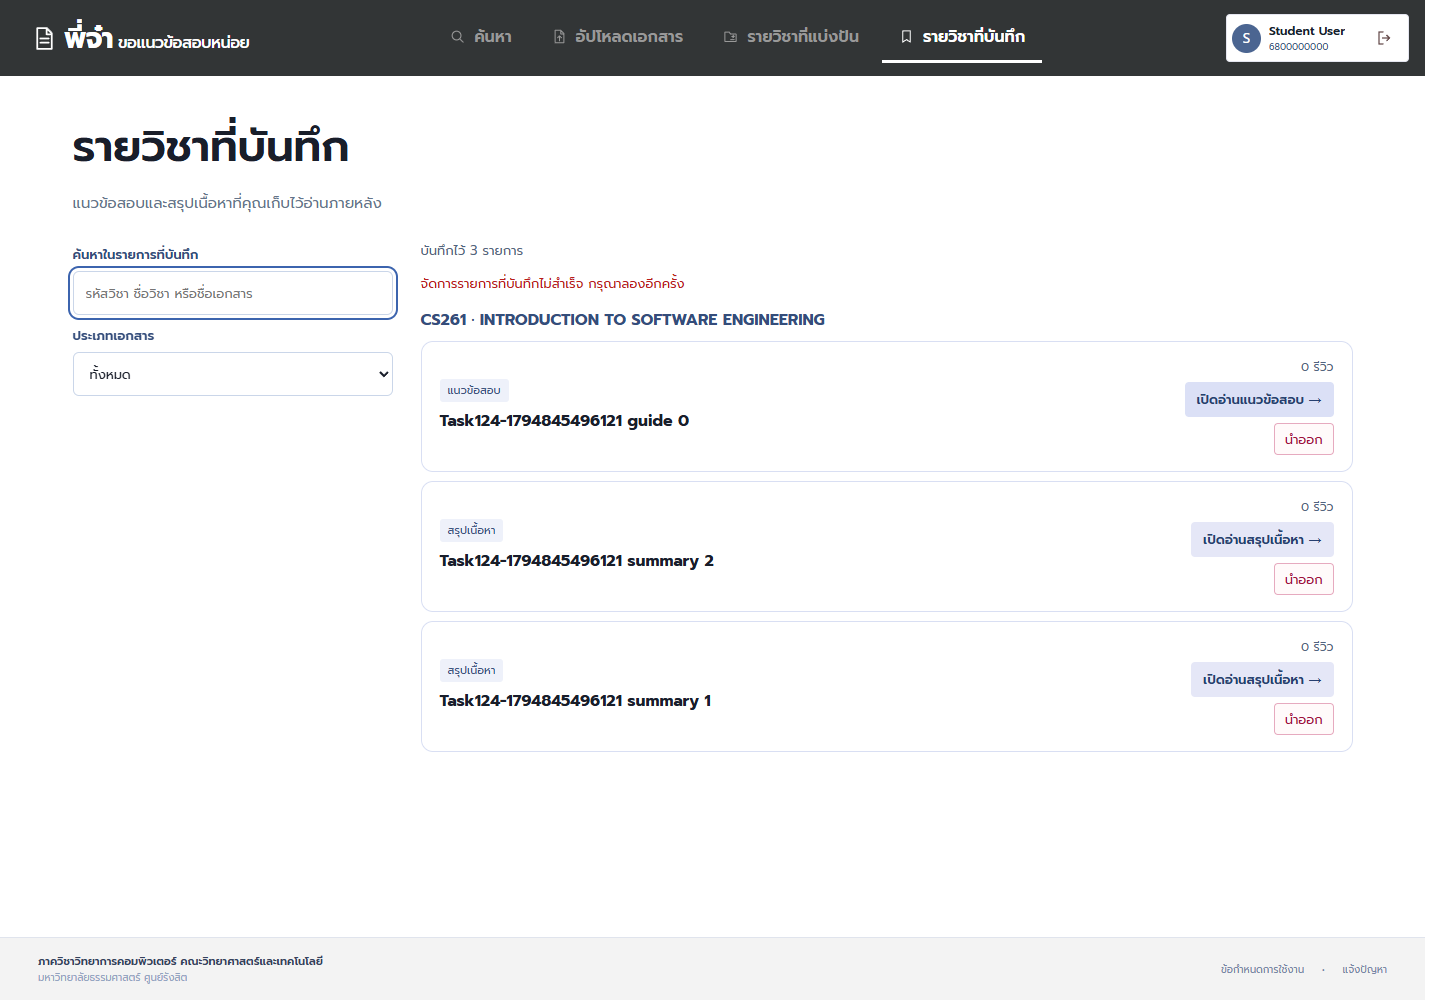
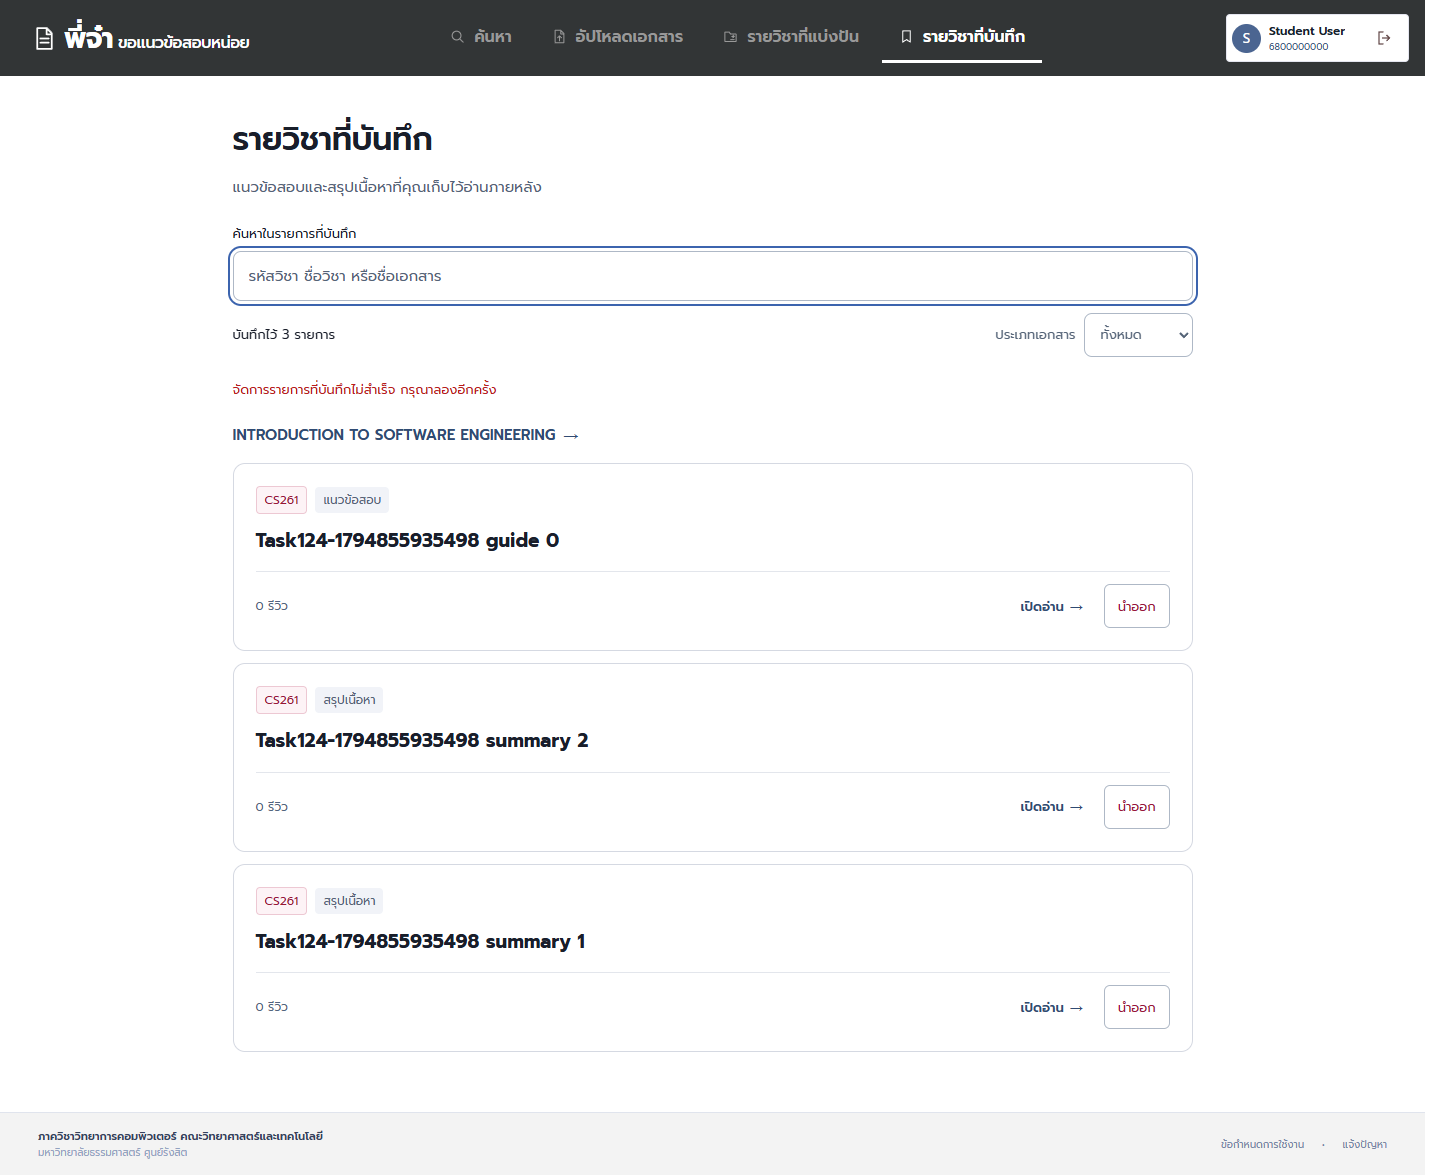
docs(task124): refresh evidence on merged Task119 and review fixes

diff --git a/docs/U10/testing/task124-u10-docker-integration.md b/docs/U10/testing/task124-u10-docker-integration.md
@@ -2,39 +2,44 @@
 
 ทดสอบหน้า “รายวิชาที่บันทึก” ผ่าน Frontend proxy, Backend, SQL Server และ PDF volume จริงแล้ว ครอบคลุมดูรายการ จัดกลุ่มตามวิชา เปิด Guide/PDF ตรงชิ้น และนำออกเฉพาะ bookmark ของบัญชีปัจจุบัน ตาม Task104 และ Task94 รุ่น 0.4 ไม่ใช้ SavedCourse หรือลบเนื้อหาทั้งวิชา
 
-รันวันที่ 16 พฤศจิกายน 2569 ใช้ฐาน `sprint2` commit `89a60fa2fcc4768e8c5fc786cae15fc66eac874d` ซึ่งรวม #129, #130 และ #131 แล้ว ชุดทดสอบอยู่ที่ `90acf9bde0c711610d5cf8df835bab1fce1e981a` รอบสุดท้าย exit 0 และ [results.json](../assets/task124/results.json) มี `passed: true` ใช้ Chrome 142.0.7444.176, Docker Engine 29.8.2, SQL Server 2022 รุ่น 16.0.4305.5 และ Playwright Core 1.65.1 การ Login ใช้ **TU mock** ไม่ใช่ TU จริง
+รันรอบแก้วันที่ 17 พฤศจิกายน 2569 (Asia/Bangkok) หลังรวม `sprint2` commit `d854470` ซึ่งมี Task119 จาก #135 แล้ว ชุดทดสอบกับ source ที่รันจริงคือ `ee56764bb03f74599e4c9b84b1f878820664a822` รอบสุดท้าย exit 0 และ [results.json](../assets/task124/results.json) มี `passed: true` ใช้ Chrome 142.0.7444.176, Docker Engine 29.8.2, SQL Server 2022 รุ่น 16.0.4305.5 และ Playwright Core 1.65.1 การ Login ใช้ **TU mock** ไม่ใช่ TU จริง เวลาใน JSON เป็น UTC
 
 ## ผลจากการรัน
 
 | กรณี | ผลที่ยืนยัน |
 | --- | --- |
+| ยืนยัน stack ก่อน Login | ตรวจ Docker metadata ของ Frontend A/B ว่าเป็นเจ้าของพอร์ต 29800/29801 จริง อยู่ใน Compose project ที่เลือก และแต่ละ proxy ชี้ Backend A/B ที่ใช้ mock ใน project/network เดียวกัน หากไม่ตรงจะหยุดก่อนเปิด browser/Login/สร้าง fixture |
 | Empty | ยังไม่มี bookmark แสดง “ยังไม่มีรายการที่บันทึก” พร้อมลิงก์ค้นหารายวิชา ไม่มี token เรียก GET list ได้ 401 |
-| รายการและการจัดกลุ่ม | A มี Guide หนึ่งชิ้นกับ PDF สองชิ้นใน CS261 แสดงสามรายการในหนึ่งกลุ่ม ไม่แสดงรายการเฉพาะของ B กดหัวกลุ่มไปวิชาที่ถูกต้อง |
-| เปิดตรงผลงาน | กด Guide ได้ title/ID ตรงรายการและ alias `/api/guides/{id}` ใช้ได้ PDF สองไฟล์มี checksum ต่างกัน กดแต่ละชิ้นได้ ID กับ SHA-256 ตรงไฟล์นั้น เปิดผ่าน API จริงและมี blob PDF ในหน้าอ่าน |
+| รายการและการจัดกลุ่ม | A มี Guide หนึ่งชิ้นกับ PDF สองชิ้นใน CS261 แสดงสามรายการในหนึ่งกลุ่ม ไม่แสดงรายการเฉพาะของ B กดหัวกลุ่มแล้วตรวจ courseId ใน URL พร้อมรหัสและชื่อวิชาที่หน้า `courseHeading`/`courseName` แสดงจริง |
+| เปิดตรงผลงาน | กด Guide ได้ title/ID ตรงรายการและ alias `/api/guides/{id}` ใช้ได้ PDF สองไฟล์มี checksum ต่างกัน ตรวจ SHA-256 จาก blob URL ใน `src` ของ iframe ตัวอ่านจริง เทียบ fixture ของชิ้นที่กด ไม่ใช้ GET แยกจากตัวอ่าน พร้อมเก็บ checksum ทั้งสองด้านใน JSON |
 | Reload และ session ใหม่ | หลัง reload และ Login ใหม่ รายการสามชิ้นของ A ยังอยู่ ส่วน B เห็นสี่ชิ้นตาม bookmark ของตัวเอง |
 | นำออกและนำออกซ้ำ | กดนำ Guide/PDF ออกได้ 200 การ์ดหายหลัง reload ลบซ้ำยังได้ 200 `saved:false` SQL เหลือ bookmark ของ B โดย Course, Guide, Summary, SummaryFile, reviews และไฟล์ไม่เปลี่ยน |
-| SQL ปฏิเสธ DELETE | Trigger จำกัดเฉพาะบัญชี A และผลงานทดสอบทำให้ DELETE ได้ 503 `SAVED_ITEMS_UNAVAILABLE` หน้าแสดงข้อผิดพลาดและโหลด list ใหม่ Bookmark ของทั้ง A/B ยังอยู่ ทดสอบแยก Guide กับ PDF |
+| SQL ปฏิเสธ DELETE | Trigger จำกัดเฉพาะบัญชี A และผลงานทดสอบทำให้ DELETE ได้ 503 `SAVED_ITEMS_UNAVAILABLE` รอ GET `/api/saved-items` ที่เกิดหลัง response 503 ตรวจว่าได้ 200 และ payload ยังมี bookmark เดิมของ A หน้าแสดงข้อผิดพลาดและการ์ดยังอยู่ SQL ยืนยัน bookmark ของทั้ง A/B ยังอยู่ ทดสอบแยก Guide/PDF |
 | SQL อ่านรายการไม่ได้ | เปลี่ยนชื่อตาราง relation ของชุดทดสอบชั่วคราว ทำให้ SELECT จริงล้มเหลว ได้ 503 หน้าแจ้ง “โหลดรายการไม่สำเร็จ” ไม่แสดงรายการบางส่วนหรือ empty เมื่อคืนชื่อตารางแล้วกดลองอีกครั้ง เห็นครบสามรายการ |
 | Browser ไม่ได้รับผล DELETE | ให้คำขอผ่านไปลบใน Backend/SQL จริงจนได้ 200 แล้ว Playwright ตัด response เฉพาะฝั่ง Browser หน้าโหลด GET list ใหม่ การ์ดหายตาม SQL แต่ยังแจ้งว่ายืนยันผลคำขอเดิมไม่ได้ Bookmark ของ B คงอยู่ ทดสอบ Guide/PDF แยกกัน |
 | เปิดรายการเก่าที่ผลงานถูกลบ | ลบ target ด้วยคำขอเจ้าของอีกชุด โดยหน้า list ยังมีการ์ดเก่า กดเปิดแล้วได้หน้าไม่พบผลงาน กด Browser Back แล้วมี GET list ใหม่ การ์ดที่หายถูกนำออก แต่ PDF อีกชิ้นยังอยู่ ทดสอบทั้ง Guide/PDF |
 | ข้อมูลและสิทธิ์ | type/ID ผิด เช่น `course`, `1.0` ได้ 422 ส่ง `user_id` ใน query ไม่ได้ และไม่มี token ส่ง DELETE ได้ 401 |
 | นำชิ้นสุดท้ายออก | หน้า A กลับเป็น empty และยังว่างหลัง Login ใหม่ ส่วน B ยังมี bookmark ของ PDF ชิ้นนั้นกับ Guide ของตน และรายละเอียด PDF ยังเปิดได้ |
 | Cleanup | ลบเฉพาะผลงานของสคริปต์ผ่าน API เจ้าของ คืนชื่อตาราง ลบ trigger แล้วเทียบแถว SQL และไฟล์/checksum กับ baseline ตรงกัน |
+| Trigger ที่มีอยู่ก่อน | เตรียม trigger ไว้ก่อนเรียกสคริปต์หลัก สคริปต์หยุดก่อน Login/fixture ตรวจ object ID, definition, จำนวนข้อมูล และจำนวนคำขอ Login ไม่เปลี่ยน trigger เดิมยังอยู่ |
+| Assertion ล้มหลังสร้าง trigger | สร้าง trigger ผ่าน ownership helper เดียวกับสคริปต์หลัก แล้วจำลอง assertion ล้ม ตรวจว่า `finally` ลบเฉพาะ trigger ที่สร้างในรอบนั้น และข้อมูลกลับเท่าเดิม |
 
 ไม่ได้ mock SQL, DAO, API response หรือ PDF storage กรณี SELECT/DELETE ล้มเหลวเป็นข้อผิดพลาดจาก SQL Server จริง ส่วนการตัด response จำลองด้วย Playwright หลัง Backend ทำงานเสร็จ จึง **ไม่ใช่** การตัดการเชื่อมต่อ Backend–SQL Server ขณะรอผล commit และไม่ใช้ผลนี้อ้างว่าทดสอบกรณีนั้นแล้ว
 
 ## หลักฐาน
 
 - [รายการว่าง](../assets/task124/01-empty.png) และ [หลายผลงานในวิชาเดียว](../assets/task124/02-grouped-list.png)
-- [เปิด Guide](../assets/task124/02-open-guide-7.png), [PDF ชิ้นแรก](../assets/task124/02-open-summary-3.png), [PDF ชิ้นที่สอง](../assets/task124/02-open-summary-4.png)
+- [เปิด Guide](../assets/task124/02-open-guide.png), [PDF ชิ้นแรก](../assets/task124/02-open-summary-1.png), [PDF ชิ้นที่สอง](../assets/task124/02-open-summary-2.png)
 - SQL ปฏิเสธการลบ [Guide](../assets/task124/03-guide-delete-sql-failure.png) / [PDF](../assets/task124/03-summary-delete-sql-failure.png)
 - [SQL อ่านรายการไม่ได้](../assets/task124/04-list-sql-failure.png)
 - โหลดสถานะหลัง response หาย [Guide](../assets/task124/05-guide-lost-response.png) / [PDF](../assets/task124/05-summary-lost-response.png)
 - [นำรายการสุดท้ายออกแล้ว](../assets/task124/06-final-empty.png)
 - [ผล JSON พร้อม SHA/environment/auth mode และ fixture IDs](../assets/task124/results.json)
 - [สคริปต์ทดสอบและคืนข้อมูล](../../../scripts/task124-u10-browser.cjs)
+- [ผลทดสอบ trigger บน SQL จริง](../assets/task124/trigger-safety-results.json) และ [สคริปต์รันซ้ำ](../../../scripts/task124-trigger-check.cjs)
+- [Guard tests](../../../scripts/task124-guards.test.cjs): **10 ผ่าน** ครอบคลุม port/project/proxy/network/auth ที่ไม่ตรง, CREATE ล้มเหลวไม่ถือ ownership และ cleanup หลัง assertion ล้ม
 
-ชื่อภาพเปิดผลงานอ้าง ID ของรอบที่เก็บหลักฐาน การรันครั้งใหม่อาจได้ ID และชื่อภาพต่างออกไป ไม่ต้องแก้ ID ในสคริปต์
+ชื่อภาพเปิดผลงานใช้ลำดับ fixture เพื่อให้รันซ้ำแล้วเขียนทับภาพเดิมได้ ID จริงของรอบล่าสุดอยู่ใน JSON ไม่ต้องกำหนด ID เอง
 
 ## บัญชี ข้อมูล และ baseline
 
@@ -57,7 +62,7 @@ TU_API_MODE=mock
 ```
 
 ```powershell
-$task124Project = 'cs261-task124-89a60fa'
+$task124Project = 'cs261-task124-d854470'
 docker compose --env-file .env -p $task124Project -f compose.yaml -f compose.task124.yaml up -d --build --wait
 docker compose --env-file .env -p $task124Project exec -T backend python -m scripts.init_reviews
 ```
@@ -75,11 +80,20 @@ $env:TASK124_EVIDENCE = Join-Path $env:TEMP 'cs261-task124-evidence'
 node scripts/task124-u10-browser.cjs
 ```
 
+ตรวจ guard และสองกรณี ownership บน SQL จริงได้ก่อนรันชุดหลัก ด้วย environment เดียวกัน:
+
+```powershell
+node --test scripts/task124-guards.test.cjs
+node scripts/task124-trigger-check.cjs
+```
+
+Guard tests ใช้ Docker metadata จำลองเพื่อตรวจเงื่อนไขหยุด ส่วน trigger-check ใช้ SQL Server จริงและเรียกสคริปต์หลักใน subprocess เพื่อตรวจการหยุดก่อน Login ผลรอบนี้ guard tests 10 ผ่าน, trigger-check exit 0 พร้อม `passed: true` และชุด browser เต็ม exit 0 พร้อม `passed: true` ทั้งหมดใช้ SHA เดียวกันใน JSON
+
 ถ้าใช้ Edge ให้ตั้ง `$env:TASK124_BROWSER = 'msedge'` ก่อนรัน ผลสำเร็จต้อง exit 0, มีผล cleanup และ `results.json` เป็น `passed: true` รันซ้ำได้หลังจบโดยไม่เรียก `init_reviews` อีก ไม่ได้รัน Unit/API ทั้งชุดซ้ำใน Task124 เพราะรอบนี้เพิ่มเฉพาะชุด Integration และรายงาน ไม่มีการแก้โค้ดแอป
 
 ## คืนข้อมูลและสถานะส่งตรวจ
 
-`finally` คืนชื่อ `task124_saved_summaries_unavailable` กลับเป็น `saved_summaries` หากจำเป็น ลบ `task124_delete_failure` และลบเฉพาะ target ที่สคริปต์สร้างผ่าน API เจ้าของ จากนั้นเทียบ baseline ถ้าหยุด process กลางทาง ให้ตรวจเฉพาะฐาน project ทดสอบนี้ ตรวจชื่อ/เจ้าของ/ID ในผลรอบนั้นก่อนคืน fixture และตรวจชื่อตารางกับ trigger ก่อนเริ่มใหม่ ไม่ล้างทั้งตารางหรือ volume
+ตรวจ stack และ trigger ที่มีอยู่ก่อนก่อนเปิด browser หากเจอ trigger ค้าง สคริปต์หยุดโดยไม่เข้า cleanup ที่จะลบของเดิม Ownership ได้มาหลัง CREATE สำเร็จเท่านั้น `finally` จึงลบ `task124_delete_failure` เฉพาะที่รอบนี้สร้าง คืนชื่อ `task124_saved_summaries_unavailable` กลับเป็น `saved_summaries` หากจำเป็น และลบเฉพาะ target ที่สคริปต์สร้างผ่าน API เจ้าของ จากนั้นเทียบ baseline ถ้าหยุด process กลางทาง ให้ตรวจเฉพาะฐาน project ทดสอบนี้ ตรวจชื่อ/เจ้าของ/ID ในผลรอบนั้นก่อนคืน fixture และตรวจชื่อตารางกับ trigger ก่อนเริ่มใหม่ ไม่ล้างทั้งตารางหรือ volume
 
 หลังเก็บหลักฐานแล้วปิดเฉพาะชุดทดสอบ โดยเก็บ volumes สำหรับรันซ้ำ:
 
@@ -88,5 +102,7 @@ docker compose --env-file .env -p $task124Project -f compose.yaml -f compose.tas
 ```
 
 ผลรอบแรกหยุดเพราะสคริปต์รอข้อความ 404 ของ PDF ว่า “ไม่พบสรุป PDF” แต่ระบบตอบ “ไม่พบสรุป” ปรับตัวตรวจให้ตรงข้อความจริงแล้วรันทั้งชุดซ้ำผ่าน ไม่มีการแก้พฤติกรรมแอปเพื่อให้ทดสอบผ่าน
+
+รอบแก้ PR #137 เปลี่ยนจากฐานเก่า `89a60fa` เป็นโค้ดที่รวม #135 แล้ว เพิ่ม stack preflight, trigger ownership, การตรวจชื่อวิชาบนหน้าและ blob ที่ตัวอ่านใช้จริง และ GET หลัง DELETE 503 ทั้ง Guide/PDF อัปเดตภาพทั้งหมดให้ตรงหน้า Task119 ล่าสุดแล้ว
 
 ส่งงานจาก `feat/u10-saved-courses-backend` เดิมเข้า `sprint2` รอสมาชิกอีกคน review ก่อน merge ผล Integration รอบนี้พร้อมให้ตรวจ แต่ไม่ได้อ้างว่า PR ผ่าน review/merge แล้ว
